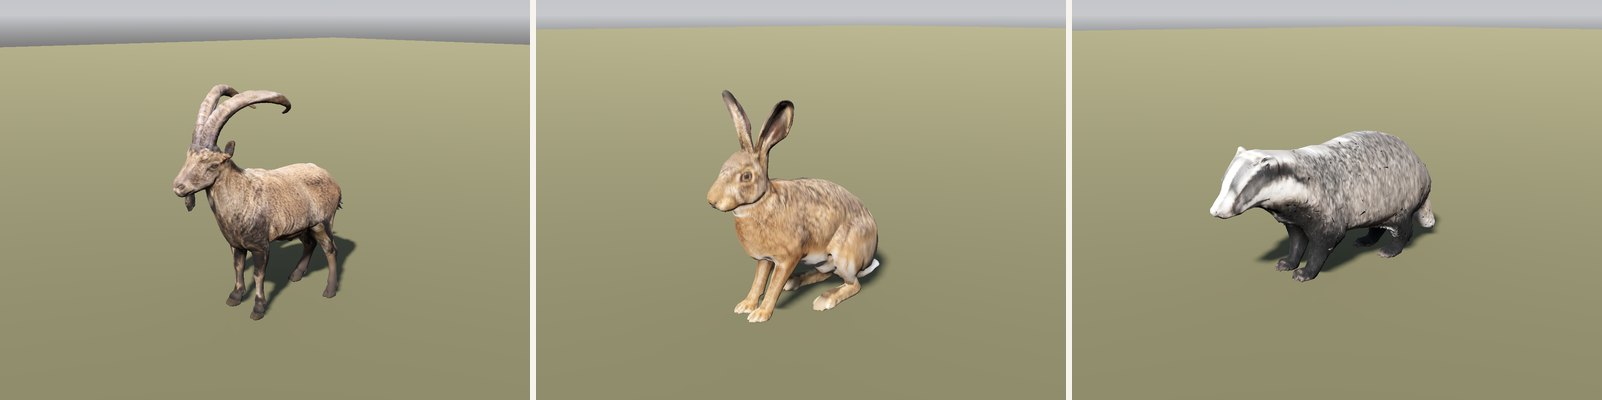
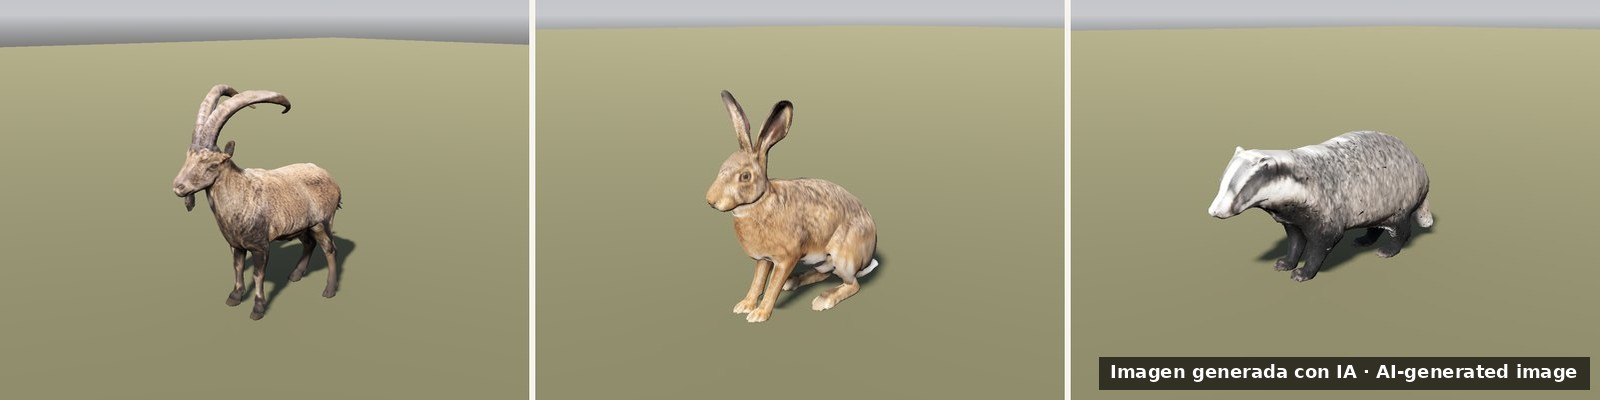
README: aviso de desarrollo, personajes nuevos de las aldeas, rocas de caliza, marca de IA en las imágenes y créditos y licencias, en los 5 idiomas

Changed region(s): [[0.6875, 0.87, 1.0, 0.99]]

diff --git a/README.fr.md b/README.fr.md
@@ -2,6 +2,8 @@
 
 > Une aventure de survie en monde ouvert à la troisième personne, dans l’Ibérie préromaine, vers 225 av. J.-C. Avant la démo, en développement.
 
+> **Avertissement : jeu en développement.** Crónicas de Iberia n’est pas encore terminé. Les images de cette page sont des images de travail et peuvent changer. *Mis à jour le 25/11/2026.*
+
 Par [Shania Webstudio](https://shaniawebstudio.com), Granada (Espagne).
 
 [English](README.md) · [Español](README.es.md) · **Français** · [Deutsch](README.de.md) · [Português](README.pt.md)
@@ -44,11 +46,20 @@ Sur le dos de la main gauche brille la **marque du sanctuaire**, un dessin doré
 
 Dans la version de développement, les pieds s’appuient sur le terrain et les bras bougent à la marche et à la course. Elle nage aussi (en crawl ou comme un chien), flotte et sort par la rive, et regarde ce qui est proche. Cela est en cours de test.
 
+## Les habitants des villages
+
+Les villages ibères accueillent de nouveaux personnages, modélisés en 3D, chacun avec ses vêtements, sa coiffure et ses parures. Ils sont encore en test.
+
+![Trois villageoises ibères, de face](imagenes/12-personajes-aldeas-iberas-render.jpg)
+
+*Rendu (vue de modèle, sans animation) de modèles 3D générés par IA à partir de concepts réalisés avec Google Gemini.*
+
 ## Monde et échelle réelle
 
 - **Échelle réelle :** dans le jeu, 1 unité vaut 1 mètre. Un test automatique compare la hauteur des personnes et des animaux, des arbres et des maisons avec des mesures réelles, et admet une marge de ±15 %.
 - **Région 1 · Édétanie et montagne du nord :** une région de 2 × 2 km avec relief, végétation, une rivière à courant et des ponts. Elle comprend un oppidum ibère pris pour modèle d’Edeta (Tossal de Sant Miquel, Llíria), avec des PNJ qui suivent des routines quotidiennes. Elle comprend aussi la grotte-sanctuaire et sa crypte, et deux donjons visitables.
 - **Régions 2 et 3 · Celtibérie et Meseta, et côte des castros :** on y accède par des chemins depuis la région 1. Elles sont dans la version de développement, en test et avec un art simple. Les chemins et ces régions utilisent le relief réel du modèle numérique de terrain MDT25 de l’IGN (CC BY 4.0).
+- **Roches :** le paysage reçoit des rochers et des affleurements calcaires modélisés avec l’IA.
 
 ## Survie, cueillette, climat et saisons
 
@@ -129,8 +140,12 @@ Sont aussi prévus :
 | Menu principal. *Interface réelle, avec une partie de test.* | Options d’accessibilité : lecture facile, réduction des flashs, moins d’ennemis à la fois et fenêtre de déviation plus longue. *Interface réelle.* |
 | ![Urke, Bilos et un guerrier de cendre](imagenes/09-personajes-render.jpg) | ![Bouquetin, lièvre ibérique et blaireau](imagenes/10-fauna-render.jpg) |
 | Urke le forgeron, Bilos la potière et un guerrier de cendre. *Rendu (vue de modèle, avec l’ombrage du jeu).* | Faune ibérique. *Rendu (vue de modèle).* |
+| ![Trois villageoises ibères, de face](imagenes/12-personajes-aldeas-iberas-render.jpg) | ![Les six ères, avec le Gardien et la Gardienne](imagenes/11-eras-concept-art.jpg) |
+| Trois villageoises ibères, de face. *Rendu (vue de modèle) de modèles 3D générés par IA.* | Les six ères, avec le Gardien et la Gardienne. *Illustration conceptuelle générée par IA (Google Gemini).* |
 
 Les captures réelles ont été faites sur un HP Omen (GTX 1050 Ti) en qualité haute ou ultra, sans retouche. Sur certaines prises, la caméra est fixe ; sur d’autres, c’est celle du joueur. Les maisons du village et certains animaux sont encore en art de prototype.
+
+**Images faites avec l’IA.** Elles portent dans un coin la mention « Imagen generada con IA · AI-generated image ». Ce sont l’illustration conceptuelle des ères (Google Gemini) et les rendus des personnages et de la faune, réalisés à partir de modèles 3D générés par IA (TripoSG). Les modèles des trois villageoises partent de concepts réalisés avec Google Gemini.
 
 ## Comment l’IA est utilisée
 
@@ -141,7 +156,17 @@ Nous le disons tel quel. L’IA sert à :
 - les voix et la musique (Google Lyria) ;
 - l’aide au code, à la recherche et à la conception.
 
-Chaque élément créé avec l’IA est relu et finalisé par un humain avant d’entrer dans le jeu. Les images de concept portent une mention IA et les crédits du jeu un avis IA.
+Chaque élément créé avec l’IA est relu et finalisé par un humain avant d’entrer dans le jeu. Les images faites avec l’IA portent une mention visible et les crédits du jeu un avis IA.
+
+## Crédits et licences
+
+- **Godot Engine** : le moteur du jeu (licence MIT).
+- **Blender** : finition et rendu des modèles (licence GPL ; les modèles et les images produits avec Blender nous appartiennent).
+- **TripoSG**, de VAST-AI : maillages 3D générés à partir des concepts (licence MIT).
+- **BiRefNet** : détourage du fond des concepts avant de générer le maillage (licence MIT).
+- **scikit-image** : extraction de la surface des maillages (licence BSD-3).
+- **Google Gemini** : illustrations conceptuelles.
+- **IGN** : relief du modèle numérique de terrain MDT25 (CC BY 4.0).
 
 ## À propos de ce dépôt
 

diff --git a/README.de.md b/README.de.md
@@ -2,6 +2,8 @@
 
 > Ein Open-World-Survival-Abenteuer aus der Third-Person-Perspektive im vorrömischen Iberien um 225 v. Chr. Vor der Demo, in Entwicklung.
 
+> **Hinweis: Das Spiel ist in Entwicklung.** Crónicas de Iberia ist noch nicht fertig. Die Bilder auf dieser Seite sind Arbeitsstände und können sich noch ändern. *Aktualisiert am 25.11.2026.*
+
 Von [Shania Webstudio](https://shaniawebstudio.com), Granada (Spanien).
 
 [English](README.md) · [Español](README.es.md) · [Français](README.fr.md) · **Deutsch** · [Português](README.pt.md)
@@ -44,11 +46,20 @@ Auf dem Rücken der linken Hand leuchtet das **Zeichen des Heiligtums**, eine go
 
 In der Entwicklungsversion stehen die Füße auf dem Gelände, und die Arme bewegen sich beim Gehen und Laufen. Sie schwimmt auch (Kraulen oder Hundepaddeln), treibt im Wasser, kommt am Ufer wieder heraus und schaut auf das, was in der Nähe ist. Das wird noch getestet.
 
+## Die Menschen in den Dörfern
+
+Die iberischen Dörfer bekommen neue Figuren, in 3D modelliert, jede mit eigener Kleidung, eigener Frisur und eigenem Schmuck. Sie werden noch getestet.
+
+![Drei Bewohnerinnen der iberischen Dörfer, von vorn](imagenes/12-personajes-aldeas-iberas-render.jpg)
+
+*Render (Modellansicht, ohne Animation) von KI-generierten 3D-Modellen auf Grundlage von Konzepten aus Google Gemini.*
+
 ## Welt und echter Maßstab
 
 - **Echter Maßstab:** Im Spiel ist 1 Einheit 1 Meter. Ein automatischer Test vergleicht die Höhe von Menschen und Tieren, Bäumen und Häusern mit echten Maßen und lässt eine Abweichung von ±15 % zu.
 - **Region 1 · Edetanien und das Gebirge im Norden:** eine Region von 2 × 2 km mit Gelände, Vegetation, einem Fluss mit Strömung und Brücken. Sie hat ein iberisches Oppidum nach dem Vorbild von Edeta (Tossal de Sant Miquel, Llíria), mit NPCs, die Tagesabläufen folgen. Dazu kommen das Höhlenheiligtum und seine Krypta sowie zwei begehbare Dungeons.
 - **Regionen 2 und 3 · Keltiberien und Meseta, und die Castro-Küste:** Man erreicht sie über Wege von Region 1 aus. Sie sind in der Entwicklungsversion, in Tests und mit einfacher Grafik. Die Wege und diese Regionen nutzen das echte Relief des Digitalen Geländemodells MDT25 des IGN (CC BY 4.0).
+- **Felsen:** Die Landschaft erhält Felsen und Kalksteinaufschlüsse, die mit KI modelliert werden.
 
 ## Überleben, Sammeln, Wetter und Jahreszeiten
 
@@ -129,8 +140,12 @@ Außerdem ist geplant:
 | Hauptmenü. *Echte Oberfläche, mit einem Testspielstand.* | Barrierefreiheitsoptionen: leicht lesbarer Text, weniger Blitzeffekte, weniger gleichzeitige Gegner und längeres Zeitfenster zum Ausweichen. *Echte Oberfläche.* |
 | ![Urke, Bilos und ein Aschekrieger](imagenes/09-personajes-render.jpg) | ![Iberischer Steinbock, Iberischer Hase und Dachs](imagenes/10-fauna-render.jpg) |
 | Urke der Schmied, Bilos die Töpferin und ein Aschekrieger. *Render (Modellansicht, mit der Schattierung des Spiels).* | Iberische Tierwelt. *Render (Modellansicht).* |
+| ![Drei Bewohnerinnen der iberischen Dörfer, von vorn](imagenes/12-personajes-aldeas-iberas-render.jpg) | ![Die sechs Ären, mit dem Wächter und der Wächterin](imagenes/11-eras-concept-art.jpg) |
+| Drei Bewohnerinnen der iberischen Dörfer, von vorn. *Render (Modellansicht) von KI-generierten 3D-Modellen.* | Die sechs Ären, mit dem Wächter und der Wächterin. *KI-generierte Konzeptzeichnung (Google Gemini).* |
 
 Die echten Screenshots wurden auf einem HP Omen (GTX 1050 Ti) in hoher oder Ultra-Qualität ohne Nachbearbeitung gemacht. Bei einigen Aufnahmen ist die Kamera fest, bei anderen ist es die Kamera des Spielers. Die Häuser des Dorfes und einige Tiere sind noch Prototyp-Grafik.
+
+**Mit KI erstellte Bilder.** Sie tragen in einer Ecke den Vermerk „Imagen generada con IA · AI-generated image“. Das sind die Konzeptzeichnung der Ären (Google Gemini) und die Renders von Figuren und Tieren, die auf KI-generierten 3D-Modellen (TripoSG) beruhen. Die Modelle der drei Bewohnerinnen gehen auf Konzepte aus Google Gemini zurück.
 
 ## Wie KI eingesetzt wird
 
@@ -141,7 +156,17 @@ Wir sagen es, wie es ist. KI wird eingesetzt für:
 - die Stimmen und die Musik (Google Lyria);
 - die Unterstützung bei Code, Recherche und Design.
 
-Jedes KI-Element wird von einem Menschen geprüft und fertiggestellt, bevor es ins Spiel kommt. Konzeptbilder tragen einen KI-Hinweis, und die Credits des Spiels enthalten einen KI-Vermerk.
+Jedes KI-Element wird von einem Menschen geprüft und fertiggestellt, bevor es ins Spiel kommt. Mit KI erstellte Bilder tragen einen sichtbaren Vermerk, und die Credits des Spiels enthalten einen KI-Hinweis.
+
+## Credits und Lizenzen
+
+- **Godot Engine**: die Spiel-Engine (MIT-Lizenz).
+- **Blender**: Nachbearbeitung und Rendern der Modelle (GPL-Lizenz; die mit Blender erzeugten Modelle und Bilder gehören uns).
+- **TripoSG** von VAST-AI: aus den Konzepten erzeugte 3D-Modelle (MIT-Lizenz).
+- **BiRefNet**: Freistellen der Konzepte vor dem Erzeugen des Modells (MIT-Lizenz).
+- **scikit-image**: Extraktion der Modelloberfläche (BSD-3-Lizenz).
+- **Google Gemini**: Konzeptzeichnungen.
+- **IGN**: Relief des Digitalen Geländemodells MDT25 (CC BY 4.0).
 
 ## Über dieses Repository
 

diff --git a/README.es.md b/README.es.md
@@ -2,6 +2,8 @@
 
 > Una aventura de supervivencia en mundo abierto y tercera persona ambientada en la Iberia prerromana, hacia el 225 a. C. Antes de la demo, en desarrollo.
 
+> **Aviso: juego en desarrollo.** Crónicas de Iberia todavía no está terminado. Las imágenes de esta página son de trabajo y pueden cambiar. *Actualizado el 25-11-2026.*
+
 De [Shania Webstudio](https://shaniawebstudio.com), Granada (España).
 
 [English](README.md) · **Español** · [Français](README.fr.md) · [Deutsch](README.de.md) · [Português](README.pt.md)
@@ -44,11 +46,20 @@ En el dorso de la mano izquierda brilla la **marca del santuario**, un dibujo do
 
 En la versión de desarrollo, los pies se apoyan en el terreno y los brazos se mueven al andar y al correr. También nada (a crol o como un perro), flota y sale por la orilla, y mira a lo que tiene cerca. Esto está en pruebas.
 
+## Gente de las aldeas
+
+Las aldeas íberas están recibiendo personajes nuevos, modelados en 3D, cada uno con su ropa, su peinado y sus adornos. Todavía están en pruebas.
+
+![Tres vecinas de las aldeas íberas, de frente](imagenes/12-personajes-aldeas-iberas-render.jpg)
+
+*Render (vista de modelo, sin animación) de modelos 3D generados con IA a partir de conceptos de Google Gemini.*
+
 ## Mundo y escala real
 
 - **Escala real:** en el juego, 1 unidad es 1 metro. Una prueba automática compara la altura de personas y animales, árboles y casas con medidas reales, y admite un margen de ±15 %.
 - **Región 1 · Edetania y montaña del norte:** una región de 2 × 2 km con terreno, vegetación, un río con corriente y puentes. Tiene un oppidum íbero tomado como modelo de Edeta (Tossal de Sant Miquel, Llíria), con PNJ que siguen rutinas diarias. Tiene también la cueva-santuario y su cripta, y dos mazmorras visitables.
 - **Regiones 2 y 3 · Celtiberia y Meseta, y Costa castreña:** se llega a ellas por caminos desde la región 1. Están en la versión de desarrollo, en pruebas y con arte sencillo. Los caminos y estas regiones usan el relieve real del Modelo Digital del Terreno MDT25 del IGN (CC BY 4.0).
+- **Rocas:** el paisaje está recibiendo rocas y afloramientos de caliza modelados con IA.
 
 ## Supervivencia, recolección, clima y estaciones
 
@@ -129,8 +140,12 @@ También está previsto:
 | Menú principal. *Interfaz real, con una partida de prueba.* | Opciones de accesibilidad: lectura fácil, reducir destellos, menos enemigos a la vez y ventana de desvío más larga. *Interfaz real.* |
 | ![Urke, Bilos y un guerrero de ceniza](imagenes/09-personajes-render.jpg) | ![Cabra montés, liebre ibérica y tejón](imagenes/10-fauna-render.jpg) |
 | Urke el herrero, Bilos la alfarera y un guerrero de ceniza. *Render (vista de modelo, con el sombreado del juego).* | Fauna ibérica. *Render (vista de modelo).* |
+| ![Tres vecinas de las aldeas íberas, de frente](imagenes/12-personajes-aldeas-iberas-render.jpg) | ![Las seis eras, con el Guardián y la Guardiana](imagenes/11-eras-concept-art.jpg) |
+| Tres vecinas de las aldeas íberas, de frente. *Render (vista de modelo) de modelos 3D generados con IA.* | Las seis eras, con el Guardián y la Guardiana. *Concept art generado con IA (Google Gemini).* |
 
 Las capturas reales están hechas en un HP Omen (GTX 1050 Ti) en calidad alta o ultra, sin retoques. En unas tomas la cámara está fija y en otras es la del jugador. Las casas del poblado y algunos animales todavía son arte de prototipo.
+
+**Imágenes hechas con IA.** Llevan en una esquina la marca «Imagen generada con IA · AI-generated image». Son el concept art de las eras (Google Gemini) y los renders de personajes y de fauna, hechos a partir de modelos 3D generados con IA (TripoSG). Los modelos de las tres vecinas parten de conceptos de Google Gemini.
 
 ## Cómo se usa la IA
 
@@ -141,7 +156,17 @@ Lo decimos como es. La IA se usa para:
 - las voces y la música (Google Lyria);
 - el apoyo en código, investigación y diseño.
 
-Toda pieza hecha con IA la revisa y la termina una persona antes de entrar en el juego. Las imágenes de concepto llevan una etiqueta de IA y los créditos del juego, un aviso de IA.
+Toda pieza hecha con IA la revisa y la termina una persona antes de entrar en el juego. Las imágenes hechas con IA llevan una marca visible y los créditos del juego, un aviso de IA.
+
+## Créditos y licencias
+
+- **Godot Engine**: el motor del juego (licencia MIT).
+- **Blender**: remate y render de los modelos (licencia GPL; los modelos y las imágenes que salen de Blender son nuestros).
+- **TripoSG**, de VAST-AI: mallas 3D generadas a partir de los conceptos (licencia MIT).
+- **BiRefNet**: recorte del fondo de los conceptos antes de generar la malla (licencia MIT).
+- **scikit-image**: extracción de la superficie de las mallas (licencia BSD-3).
+- **Google Gemini**: arte conceptual.
+- **IGN**: relieve del Modelo Digital del Terreno MDT25 (CC BY 4.0).
 
 ## Sobre este repositorio
 

diff --git a/README.pt.md b/README.pt.md
@@ -2,6 +2,8 @@
 
 > Uma aventura de sobrevivência em mundo aberto na terceira pessoa, ambientada na Ibéria pré-romana, por volta de 225 a. C. Antes da demo, em desenvolvimento.
 
+> **Aviso: jogo em desenvolvimento.** Crónicas de Iberia ainda não está terminado. As imagens desta página são de trabalho e podem mudar. *Atualizado a 25-11-2026.*
+
 Por [Shania Webstudio](https://shaniawebstudio.com), Granada (Espanha).
 
 [English](README.md) · [Español](README.es.md) · [Français](README.fr.md) · [Deutsch](README.de.md) · **Português**
@@ -44,11 +46,20 @@ No dorso da mão esquerda brilha a **marca do santuário**, um desenho dourado q
 
 Na versão de desenvolvimento, os pés apoiam-se no terreno e os braços mexem-se ao andar e ao correr. Também nada (em crawl ou como um cão), flutua e sai pela margem, e olha para o que tem perto. Isto está em testes.
 
+## A gente das aldeias
+
+As aldeias iberas estão a receber personagens novas, modeladas em 3D, cada uma com a sua roupa, o seu penteado e os seus adornos. Ainda estão em testes.
+
+![Três habitantes das aldeias iberas, de frente](imagenes/12-personajes-aldeas-iberas-render.jpg)
+
+*Render (vista de modelo, sem animação) de modelos 3D gerados com IA a partir de conceitos feitos com o Google Gemini.*
+
 ## Mundo e escala real
 
 - **Escala real:** no jogo, 1 unidade é 1 metro. Um teste automático compara a altura de pessoas e animais, árvores e casas com medidas reais, e admite uma margem de ±15 %.
 - **Região 1 · Edetânia e montanha do norte:** uma região de 2 × 2 km com terreno, vegetação, um rio com corrente e pontes. Tem um oppidum ibero tomado como modelo de Edeta (Tossal de Sant Miquel, Llíria), com NPC que seguem rotinas diárias. Tem também a gruta-santuário e a sua cripta, e duas masmorras visitáveis.
 - **Regiões 2 e 3 · Celtibéria e Meseta, e Costa castreja:** chega-se a elas por caminhos a partir da região 1. Estão na versão de desenvolvimento, em testes e com arte simples. Os caminhos e estas regiões usam o relevo real do Modelo Digital do Terreno MDT25 do IGN (CC BY 4.0).
+- **Rochas:** a paisagem está a receber rochas e afloramentos de calcário modelados com IA.
 
 ## Sobrevivência, recoleção, clima e estações
 
@@ -129,8 +140,12 @@ Também está previsto:
 | Menu principal. *Interface real, com uma partida de teste.* | Opções de acessibilidade: leitura fácil, reduzir flashes, menos inimigos em simultâneo e janela de desvio mais longa. *Interface real.* |
 | ![Urke, Bilos e um guerreiro de cinza](imagenes/09-personajes-render.jpg) | ![Cabra-montês, lebre-ibérica e texugo](imagenes/10-fauna-render.jpg) |
 | Urke, o ferreiro, Bilos, a oleira, e um guerreiro de cinza. *Render (vista de modelo, com o sombreado do jogo).* | Fauna ibérica. *Render (vista de modelo).* |
+| ![Três habitantes das aldeias iberas, de frente](imagenes/12-personajes-aldeas-iberas-render.jpg) | ![As seis eras, com o Guardião e a Guardiã](imagenes/11-eras-concept-art.jpg) |
+| Três habitantes das aldeias iberas, de frente. *Render (vista de modelo) de modelos 3D gerados com IA.* | As seis eras, com o Guardião e a Guardiã. *Arte concetual gerada com IA (Google Gemini).* |
 
 As capturas reais foram feitas num HP Omen (GTX 1050 Ti) em qualidade alta ou ultra, sem retoques. Em algumas tomadas a câmara está fixa e noutras é a do jogador. As casas da povoação e alguns animais ainda são arte de protótipo.
+
+**Imagens feitas com IA.** Levam num canto a marca «Imagen generada con IA · AI-generated image». São a arte concetual das eras (Google Gemini) e os renders de personagens e de fauna, feitos a partir de modelos 3D gerados com IA (TripoSG). Os modelos das três habitantes partem de conceitos feitos com o Google Gemini.
 
 ## Como a IA é usada
 
@@ -141,7 +156,17 @@ Dizemo-lo como é. Usa-se IA para:
 - vozes e música (Google Lyria);
 - apoio em código, pesquisa e design.
 
-Cada peça feita com IA é revista e finalizada por uma pessoa antes de entrar no jogo. As imagens de conceito levam uma etiqueta de IA e os créditos do jogo, um aviso de IA.
+Cada peça feita com IA é revista e finalizada por uma pessoa antes de entrar no jogo. As imagens feitas com IA levam uma marca visível e os créditos do jogo, um aviso de IA.
+
+## Créditos e licenças
+
+- **Godot Engine**: o motor do jogo (licença MIT).
+- **Blender**: acabamento e render dos modelos (licença GPL; os modelos e as imagens que saem do Blender são nossos).
+- **TripoSG**, da VAST-AI: malhas 3D geradas a partir dos conceitos (licença MIT).
+- **BiRefNet**: recorte do fundo dos conceitos antes de gerar a malha (licença MIT).
+- **scikit-image**: extração da superfície das malhas (licença BSD-3).
+- **Google Gemini**: arte concetual.
+- **IGN**: relevo do Modelo Digital do Terreno MDT25 (CC BY 4.0).
 
 ## Sobre este repositório
 

diff --git a/README.md b/README.md
@@ -2,6 +2,8 @@
 
 > A third-person open-world survival adventure set in pre-Roman Iberia, around 225 BC. Pre-demo, in development.
 
+> **Notice: game in development.** Crónicas de Iberia is not finished yet. The images on this page are work in progress and may change. *Updated on 25 November 2026.*
+
 By [Shania Webstudio](https://shaniawebstudio.com), Granada (Spain).
 
 **English** · [Español](README.es.md) · [Français](README.fr.md) · [Deutsch](README.de.md) · [Português](README.pt.md)
@@ -44,11 +46,20 @@ On the back of the left hand glows the **sanctuary mark**, a golden design that 
 
 In the development version, the feet rest on the terrain and the arms move when walking and running. The protagonist also swims (front crawl or doggy paddle), floats and climbs out at the bank, and looks at what is nearby. This is being tested.
 
+## The people of the villages
+
+The Iberian villages are receiving new characters, modelled in 3D, each with their own clothes, hairstyle and ornaments. They are still being tested.
+
+![Three women from the Iberian villages, front view](imagenes/12-personajes-aldeas-iberas-render.jpg)
+
+*Render (model view, without animation) of AI-generated 3D models based on concepts made with Google Gemini.*
+
 ## World and real scale
 
 - **Real scale:** in the game, 1 unit is 1 metre. An automated test compares the height of people and animals, trees and houses with real measurements, and allows a margin of ±15%.
 - **Region 1 · Edetania and the northern mountains:** a 2 × 2 km region with terrain, vegetation, a river with a current and bridges. It has an Iberian oppidum modelled on Edeta (Tossal de Sant Miquel, Llíria), with NPCs that follow daily routines. It also has the cave sanctuary and its crypt, and two visitable dungeons.
 - **Regions 2 and 3 · Celtiberia and the Meseta, and the Castro Coast (hillfort coast):** you reach them by paths from region 1. They are in the development version, in testing and with simple art. The paths and these regions use the real relief of the MDT25 Digital Terrain Model of the IGN (CC BY 4.0).
+- **Rocks:** the landscape is receiving limestone rocks and outcrops modelled with AI.
 
 ## Survival, gathering, weather and seasons
 
@@ -129,8 +140,12 @@ Also planned:
 | Main menu. *Real interface, with a test save.* | Accessibility options: easy-read text, reduced flashes, fewer simultaneous enemies and a longer parry window. *Real interface.* |
 | ![Urke, Bilos and an Ash warrior](imagenes/09-personajes-render.jpg) | ![Ibex, Iberian hare and badger](imagenes/10-fauna-render.jpg) |
 | Urke the smith, Bilos the potter and an Ash warrior. *Render (model view, with the game's shading).* | Iberian wildlife. *Render (model view).* |
+| ![Three women from the Iberian villages, front view](imagenes/12-personajes-aldeas-iberas-render.jpg) | ![The six eras, with the male and female Guardian](imagenes/11-eras-concept-art.jpg) |
+| Three women from the Iberian villages, front view. *Render (model view) of AI-generated 3D models.* | The six eras, with the male and female Guardian. *AI-generated concept art (Google Gemini).* |
 
 The real screenshots were taken on an HP Omen (GTX 1050 Ti) at high or ultra quality, without retouching. In some shots the camera is fixed and in others it is the player's. The village houses and some animals are still prototype art.
+
+**AI-made images.** They carry the mark "Imagen generada con IA · AI-generated image" in a corner. They are the concept art of the eras (Google Gemini) and the renders of characters and wildlife, made from AI-generated 3D models (TripoSG). The models of the three women are based on concepts made with Google Gemini.
 
 ## How we use AI
 
@@ -141,7 +156,17 @@ We say it as it is. AI is used for:
 - voices and music (Google Lyria);
 - support with code, research and design.
 
-Every AI-made piece is reviewed and finished by a human before it goes into the game. Concept images carry an AI label and the game credits carry an AI notice.
+Every AI-made piece is reviewed and finished by a human before it goes into the game. AI-made images carry a visible mark and the game credits carry an AI notice.
+
+## Credits and licences
+
+- **Godot Engine**: the game engine (MIT licence).
+- **Blender**: finishing and rendering of the models (GPL licence; the models and images produced with Blender are our own).
+- **TripoSG**, by VAST-AI: 3D meshes generated from the concepts (MIT licence).
+- **BiRefNet**: removal of the concept background before generating the mesh (MIT licence).
+- **scikit-image**: extraction of the mesh surface (BSD-3 licence).
+- **Google Gemini**: concept art.
+- **IGN**: relief from the MDT25 Digital Terrain Model (CC BY 4.0).
 
 ## About this repository
 
